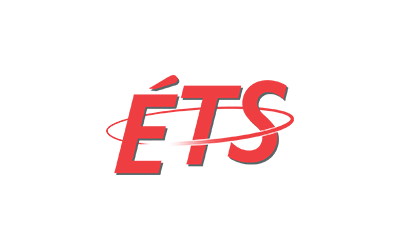
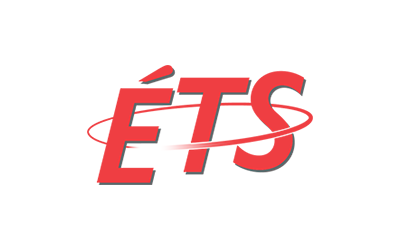
New schedule and new sponsors

Changed region(s): [[0.21, 0.252, 0.78, 0.756]]

diff --git a/_includes/schedule.html b/_includes/schedule.html
@@ -2,22 +2,40 @@
   <div class="uk-container uk-container-center">
     <h2>Schedule</h2>
 
-    <div class="uk-grid">
-      <div class="uk-width-1-2">
-        <h3>Day 1</h3>
+    <ul class="uk-tab" data-uk-tab="{connect:'#schedule-tabs'}">
+      <li><a href="">APRIL 8</a></li>
+      <li><a href="">APRIL 9</a></li>
+    </ul>
 
-        {% for schedule in site.data.schedule-day-1 %}
-          {% include day.html %}
-        {% endfor %}
-      </div>
-
-      <div class="uk-width-1-2">
-        <h3>Day 2</h3>
-
-        {% for schedule in site.data.schedule-day-2 %}
-          {% include day.html %}
-        {% endfor %}
-      </div>
-    </div>
+    <ul id="schedule-tabs" class="uk-switcher uk-margin">
+      <li>
+        <ul class="schedule">
+          {% for time in site.data.schedule-day-1 %}
+            <li>
+              <span class="schedule-time">{{ time[0] }}</span>
+              <ul>
+                {% for schedule in time[1] %}
+                  <li>{% include day.html %}</li>
+                {% endfor %}
+              </ul>
+            </li>
+          {% endfor %}
+        </ul>
+      </li>
+      <li>
+        <ul class="schedule">
+          {% for time in site.data.schedule-day-2 %}
+            <li>
+              <span class="schedule-time">{{ time[0] }}</span>
+              <ul>
+                {% for schedule in time[1] %}
+                  <li>{% include day.html %}</li>
+                {% endfor %}
+              </ul>
+            </li>
+          {% endfor %}
+        </ul>
+      </li>
+    </ul>
   </div>
 </section>

diff --git a/_includes/day.html b/_includes/day.html
@@ -1,6 +1,6 @@
 <h4>
   {{ schedule.title }}<br>
-  <small>{{ schedule.time }}</small>
+  <small>{{ schedule.time }} | {{ schedule.room }}</small>
 </h4>
 
 {% if schedule.description %}
